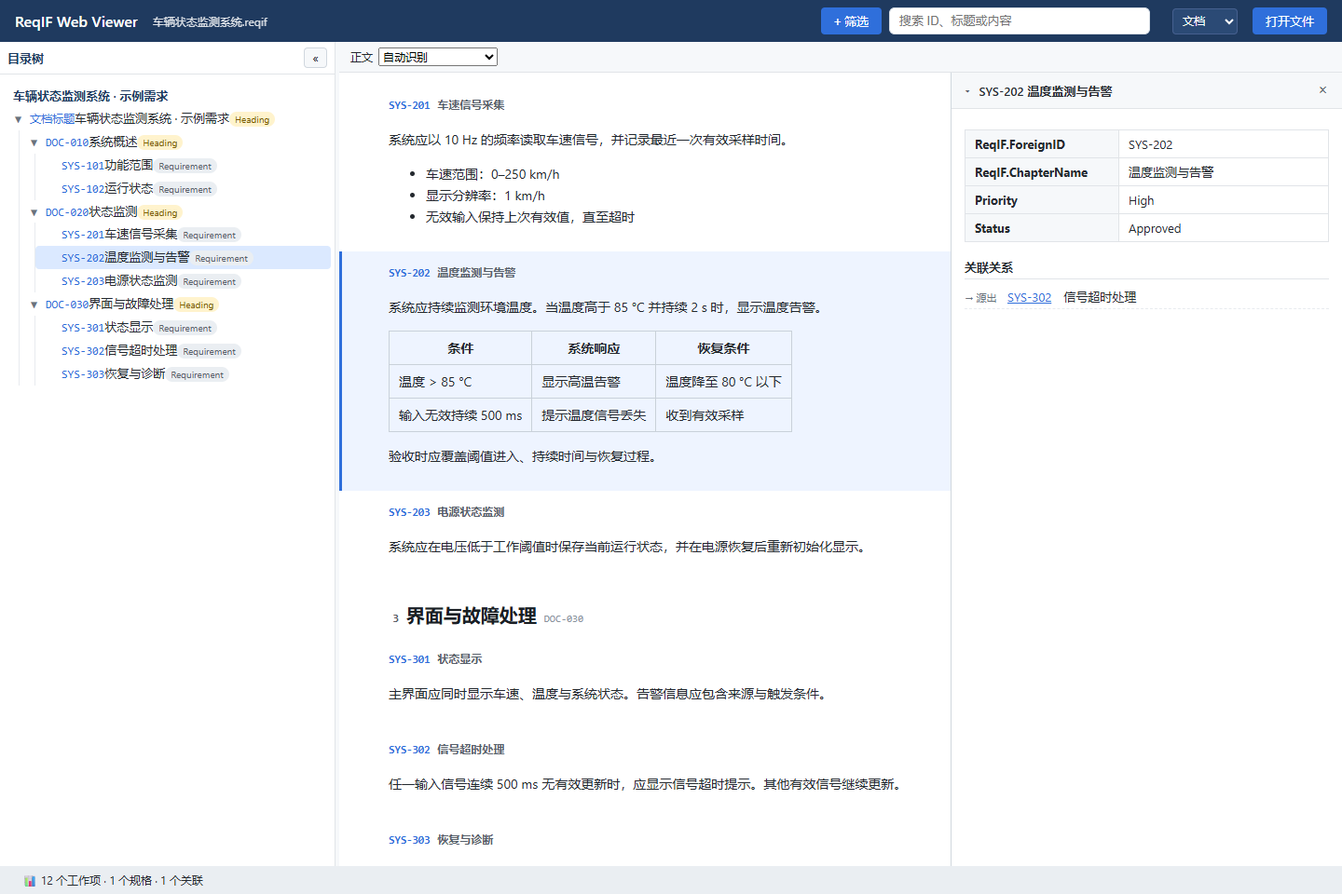
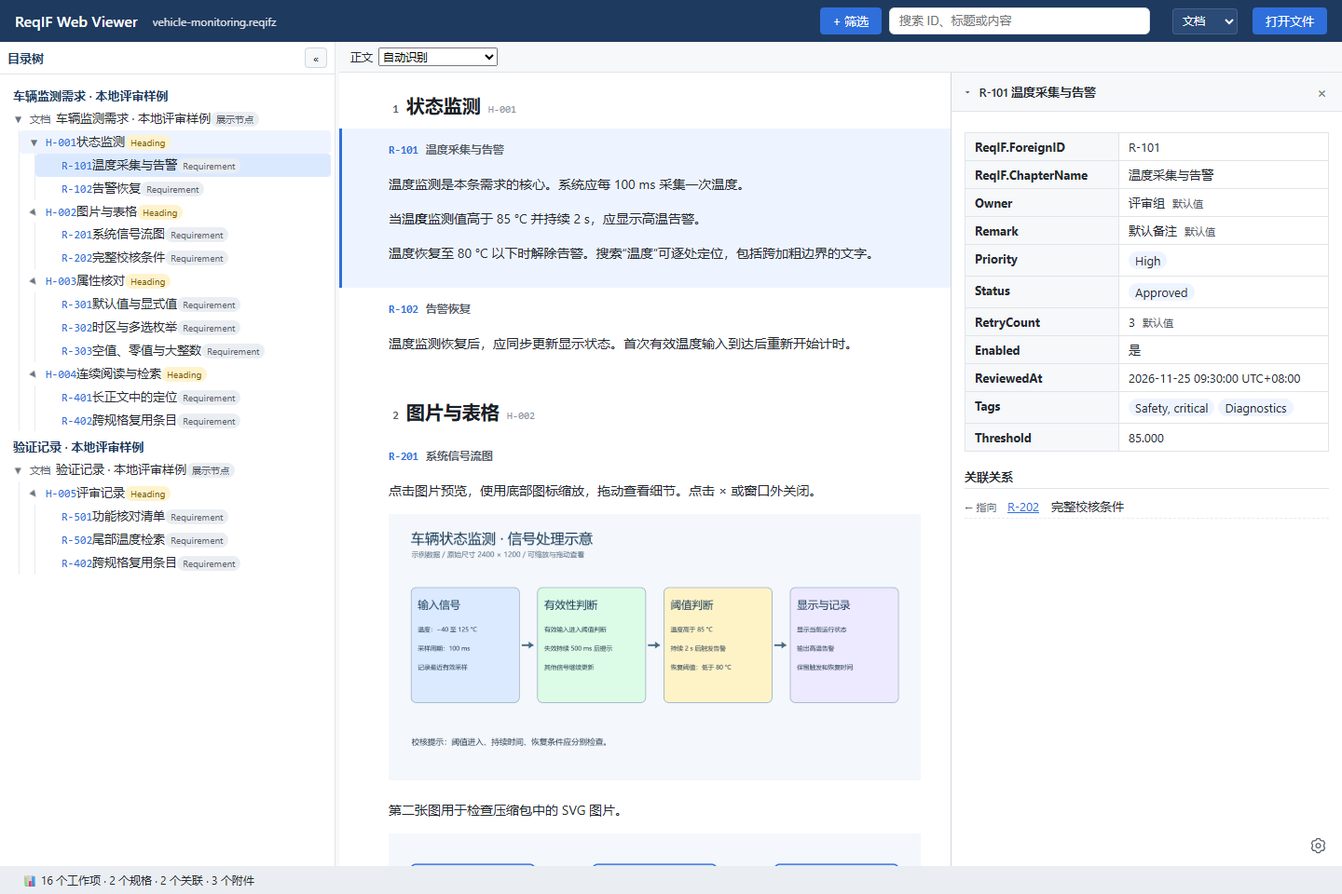
Expand ReqIF viewer showcase with current screenshots

diff --git a/en/projects/reqif-web-viewer/index.html b/en/projects/reqif-web-viewer/index.html
@@ -3,18 +3,18 @@
 <head>
   <meta charset="utf-8">
   <meta name="viewport" content="width=device-width, initial-scale=1">
-  <meta name="description" content="ReqIF Web Viewer is an open-source, browser-local viewer for ReqIF and ReqIFz files, with document navigation, full-text search, attribute filters, relations, and attachments.">
+  <meta name="description" content="ReqIF Web Viewer is an open-source local requirements viewer with document reading, body search navigation, field settings, image zoom, wide tables, relations, and source-based statistics.">
   <meta name="theme-color" content="#08111f">
   <meta name="robots" content="index, follow, max-image-preview:large">
   <meta property="og:type" content="article">
   <meta property="og:title" content="ReqIF Web Viewer | Read requirements in your browser · Clin">
-  <meta property="og:description" content="ReqIF Web Viewer is an open-source, browser-local viewer for ReqIF and ReqIFz files, with document navigation, full-text search, attribute filters, relations, and attachments.">
+  <meta property="og:description" content="ReqIF Web Viewer is an open-source local requirements viewer with document reading, body search navigation, field settings, image zoom, wide tables, relations, and source-based statistics.">
   <meta property="og:url" content="https://xzeng666.github.io/en/projects/reqif-web-viewer/">
   <meta property="og:image" content="https://xzeng666.github.io/assets/images/reqif-document-real.png">
-  <meta property="og:image:alt" content="The running ReqIF Web Viewer showing a requirement tree, temperature monitoring text and table, and an attribute and relations panel">
+  <meta property="og:image:alt" content="ReqIF Web Viewer document view with a requirement tree, temperature monitoring content, attributes, and relations">
   <meta name="twitter:card" content="summary_large_image">
   <meta name="twitter:title" content="ReqIF Web Viewer | Read requirements in your browser · Clin">
-  <meta name="twitter:description" content="ReqIF Web Viewer is an open-source, browser-local viewer for ReqIF and ReqIFz files, with document navigation, full-text search, attribute filters, relations, and attachments.">
+  <meta name="twitter:description" content="ReqIF Web Viewer is an open-source local requirements viewer with document reading, body search navigation, field settings, image zoom, wide tables, relations, and source-based statistics.">
   <meta name="twitter:image" content="https://xzeng666.github.io/assets/images/reqif-document-real.png">
   <title>ReqIF Web Viewer | Read requirements in your browser · Clin</title>
   <link rel="canonical" href="https://xzeng666.github.io/en/projects/reqif-web-viewer/">
@@ -35,7 +35,7 @@
       "@type": "SoftwareApplication",
       "name": "ReqIF Web Viewer",
       "url": "https://xzeng666.github.io/en/projects/reqif-web-viewer/",
-      "description": "ReqIF Web Viewer is an open-source, browser-local viewer for ReqIF and ReqIFz files, with document navigation, full-text search, attribute filters, relations, and attachments.",
+      "description": "ReqIF Web Viewer is an open-source local requirements viewer with document reading, body search navigation, field settings, image zoom, wide tables, relations, and source-based statistics.",
       "applicationCategory": "DeveloperApplication",
       "operatingSystem": "Web browser",
       "programmingLanguage": "JavaScript",
@@ -95,7 +95,7 @@
       </button>
       <nav class="nav-links" id="site-nav" aria-label="Project navigation">
         <a href="../../">Home</a>
-        <a href="#background">Background</a>
+        <a href="#interfaces">Interface</a>
         <a href="#features">Features</a>
         <a href="#start">Get started</a>
         <a href="../">All projects</a>
@@ -121,9 +121,9 @@
         </div>
         <figure class="visual-frame reveal">
           <a href="../../../assets/images/reqif-document-real.png" target="_blank" rel="noopener noreferrer" aria-label="View full screenshot">
-            <img src="../../../assets/images/reqif-document-real.png" width="1440" height="960" decoding="async" alt="The running ReqIF Web Viewer showing a requirement tree, temperature monitoring text and table, and an attribute and relations panel">
+            <img src="../../../assets/images/reqif-document-real.png" width="1440" height="960" decoding="async" alt="ReqIF Web Viewer document view with a requirement tree, temperature monitoring content, attributes, and relations">
           </a>
-          <figcaption class="visual-caption">Document view with navigation, content, and attributes. Captured from the running viewer with sample requirements.</figcaption>
+          <figcaption class="visual-caption">Document view with requirement navigation, attributes, and relations.</figcaption>
         </figure>
       </div>
     </section>
@@ -144,29 +144,91 @@
     <section class="section" id="features">
       <div class="container">
         <div class="section-heading reveal">
-          <div><span class="eyebrow">Features</span><h2>Read the document, then inspect the details.</h2></div>
-          <p>Document view provides context. Work item view collects the details of a single record.</p>
+          <div><span class="eyebrow">Features</span><h2>Everyday operations for reading requirements.</h2></div>
+          <p>Screenshots show the current viewer with illustrative Chinese vehicle-monitoring requirements. Select an image to view it at full size.</p>
         </div>
         <div class="detail-grid">
-          <article class="card reveal"><h3>Two connected views</h3><p>Navigate between the tree and document. Read paragraphs, lists, tables, and plain or rich text, with a choice of body field.</p></article>
-          <article class="card reveal"><h3>Search and attribute filters</h3><p>Search IDs, titles, and content using all or any keywords. Results include the matched field, highlighted excerpts, and chapter paths.</p></article>
-          <article class="card reveal"><h3>Attributes and relations</h3><p>Inspect enumeration, date, and numeric attributes, together with incoming and outgoing relations. Open related work items directly.</p></article>
-          <article class="card reveal"><h3>Attachments on demand</h3><p>Images in a ReqIFz archive load when visible. Other attachments are read and downloaded on click, so reading can start before attachment extraction.</p></article>
+          <article class="card reveal"><h3>Document and work item views</h3><p>Read specifications continuously in their original order, navigate from the tree, and inspect individual records. Select the field used as the document body.</p></article>
+          <article class="card reveal"><h3>Search and body navigation</h3><p>Search IDs, titles, and content with all or any keywords, then combine attribute filters. Highlight body matches, see the count, and move to the previous or next occurrence.</p></article>
+          <article class="card reveal"><h3>Field display settings</h3><p>Open the gear in the work item panel to choose fields. Drag the left handle or click the up and down buttons to reorder them. Preferences stay in the current browser.</p></article>
+          <article class="card reveal"><h3>Attribute values and sources</h3><p>Inspect separate enumeration labels, booleans, dates, and numbers. Inherited defaults are marked, dates retain their source time zone, and tooltips show the original value.</p></article>
+          <article class="card reveal"><h3>Images, tables, and attachments</h3><p>Images open fitted to the window, with zoom controls, wheel zoom, and drag panning. Scroll wide tables within the document and download other attachments on click.</p></article>
+          <article class="card reveal"><h3>Relations and statistics</h3><p>Follow incoming and outgoing relations. Counts use the source objects, count repeated references once, and handle added document titles as display nodes.</p></article>
         </div>
       </div>
     </section>
-    <section class="section section-muted">
+    <section class="section section-muted" id="search">
       <div class="container project-feature">
         <div class="feature-copy reveal">
           <span class="eyebrow">Search &amp; inspect</span>
-          <h2>Find a requirement with its context.</h2>
-          <p>Combine keywords and attribute filters. This example searches for temperature and filters High priority before opening an item to inspect its thresholds, recovery conditions, and related requirements.</p>
+          <h2>Go from a result to the matching content.</h2>
+          <p>This example searches for temperature and filters High priority. Results show the matched field, excerpt, and chapter path. Open an item to see highlighted body matches, then move to the previous or next occurrence.</p>
         </div>
         <figure class="visual-frame reveal">
           <a href="../../../assets/images/reqif-search-real.png" target="_blank" rel="noopener noreferrer" aria-label="View full screenshot">
-            <img src="../../../assets/images/reqif-search-real.png" width="1440" height="960" loading="lazy" decoding="async" alt="The running ReqIF Web Viewer with a temperature search, a High priority filter, and a work item showing attributes, text, and relations">
+            <img src="../../../assets/images/reqif-search-real.png" width="1440" height="960" loading="lazy" decoding="async" alt="Temperature search with a High priority filter, highlighted body text, occurrence count, and previous and next controls">
           </a>
-          <figcaption class="visual-caption">Search and filters with highlighted results and full work item details. The interface is shown with illustrative Chinese requirements.</figcaption>
+          <figcaption class="visual-caption">Combined search and filters with body highlighting and occurrence navigation.</figcaption>
+        </figure>
+      </div>
+    </section>
+    <section class="section" id="interfaces">
+      <div class="container">
+        <div class="section-heading reveal">
+          <div><span class="eyebrow">Attributes</span><h2>Arrange attributes for the way you read.</h2></div>
+          <p>Original field names and value tooltips remain available, with display settings inside the work item panel.</p>
+        </div>
+        <div class="reqif-gallery">
+        <figure class="visual-frame reveal">
+          <a href="../../../assets/images/reqif-item-real.png" target="_blank" rel="noopener noreferrer" aria-label="View full screenshot">
+            <img src="../../../assets/images/reqif-item-real.png" width="1440" height="960" loading="lazy" decoding="async" alt="Work item details showing enumeration labels, inherited defaults, a date retaining its time zone, and the body">
+          </a>
+          <figcaption class="visual-caption">Work item details with enumeration values, booleans, defaults, and the source time zone.</figcaption>
+        </figure>
+        <figure class="visual-frame reveal">
+          <a href="../../../assets/images/reqif-attributes-real.png" target="_blank" rel="noopener noreferrer" aria-label="View full screenshot">
+            <img src="../../../assets/images/reqif-attributes-real.png" width="1440" height="960" loading="lazy" decoding="async" alt="Field settings with checkboxes, drag handles on the left, and up and down icon buttons">
+          </a>
+          <figcaption class="visual-caption">Choose visible fields and reorder them by dragging or clicking the up and down buttons.</figcaption>
+        </figure>
+        </div>
+      </div>
+    </section>
+    <section class="section section-muted" id="media">
+      <div class="container">
+        <div class="section-heading reveal">
+          <div><span class="eyebrow">Images &amp; tables</span><h2>Inspect diagrams and wide tables.</h2></div>
+          <p>Close image and settings windows with the cross or a click outside. Reading controls stay close to the content.</p>
+        </div>
+        <div class="reqif-gallery">
+        <figure class="visual-frame reveal">
+          <a href="../../../assets/images/reqif-image-real.png" target="_blank" rel="noopener noreferrer" aria-label="View full screenshot">
+            <img src="../../../assets/images/reqif-image-real.png" width="1440" height="960" loading="lazy" decoding="async" alt="Image preview fitted to the window, with a close icon at the top and zoom icons and a percentage below">
+          </a>
+          <figcaption class="visual-caption">Image preview starts fitted to the window, with zoom controls and drag panning.</figcaption>
+        </figure>
+        <figure class="visual-frame reveal">
+          <a href="../../../assets/images/reqif-table-real.png" target="_blank" rel="noopener noreferrer" aria-label="View full screenshot">
+            <img src="../../../assets/images/reqif-table-real.png" width="1440" height="960" loading="lazy" decoding="async" alt="A ten-column requirement table scrolled horizontally within document view">
+          </a>
+          <figcaption class="visual-caption">Scroll wide tables inside the document while keeping their surrounding context.</figcaption>
+        </figure>
+        </div>
+      </div>
+    </section>
+    <section class="section" id="statistics">
+      <div class="container case-copy-grid">
+        <div class="case-copy reveal">
+          <span class="eyebrow">Statistics</span>
+          <h2>Statistics reflect the source objects.</h2>
+          <p>A work item referenced by multiple specifications is counted once. Document titles added from specification names are marked as display nodes, while work item and type totals use objects from the file.</p>
+          <p>The window also lists specifications, relations, and attachments. This example contains 16 work items, including 5 Heading and 11 Requirement objects.</p>
+        </div>
+        <figure class="visual-frame reveal reqif-statistics">
+          <a href="../../../assets/images/reqif-statistics-real.png" target="_blank" rel="noopener noreferrer" aria-label="View full screenshot">
+            <img src="../../../assets/images/reqif-statistics-real.png" width="420" height="314" loading="lazy" decoding="async" alt="Statistics window showing 16 source work items, 5 Heading and 11 Requirement objects, 2 specifications, 2 relations, and 3 attachments">
+          </a>
+          <figcaption class="visual-caption">Statistics count source work items separately from added document titles.</figcaption>
         </figure>
       </div>
     </section>
@@ -190,7 +252,7 @@
       <div class="container">
         <div class="free-banner reveal">
           <div class="free-banner-content">
-            <div><span class="free-label">MIT</span><h2>MIT licensed, with source ready to download.</h2><p>Built with HTML, CSS, and JavaScript, the viewer runs without a build step. The repository includes usage, format notes, and GitHub Pages deployment instructions.</p></div>
+            <div><span class="free-label">MIT</span><h2>MIT licensed, with source ready to download.</h2><p>Built with HTML, CSS, and JavaScript, the viewer runs without a build step. The repository includes the source, usage, and supported file formats.</p></div>
             <a class="button button-secondary" href="https://github.com/Xzeng666/reqif-web-viewer" target="_blank" rel="noopener noreferrer">Browse the GitHub repository</a>
           </div>
         </div>

diff --git a/projects/reqif-web-viewer/index.html b/projects/reqif-web-viewer/index.html
@@ -3,18 +3,18 @@
 <head>
   <meta charset="utf-8">
   <meta name="viewport" content="width=device-width, initial-scale=1">
-  <meta name="description" content="ReqIF Web Viewer 是开源的浏览器本地需求查看器，支持 ReqIF / ReqIFz 文档阅读、全文搜索、属性筛选、关联关系与附件。">
+  <meta name="description" content="ReqIF Web Viewer 是开源的本地需求查看器，支持 ReqIF / ReqIFz 文档阅读、正文搜索定位、字段设置、图片缩放、宽表格、关联关系和真实对象统计。">
   <meta name="theme-color" content="#08111f">
   <meta name="robots" content="index, follow, max-image-preview:large">
   <meta property="og:type" content="article">
   <meta property="og:title" content="ReqIF Web Viewer｜在浏览器中阅读需求文件 · Clin">
-  <meta property="og:description" content="ReqIF Web Viewer 是开源的浏览器本地需求查看器，支持 ReqIF / ReqIFz 文档阅读、全文搜索、属性筛选、关联关系与附件。">
+  <meta property="og:description" content="ReqIF Web Viewer 是开源的本地需求查看器，支持 ReqIF / ReqIFz 文档阅读、正文搜索定位、字段设置、图片缩放、宽表格、关联关系和真实对象统计。">
   <meta property="og:url" content="https://xzeng666.github.io/projects/reqif-web-viewer/">
   <meta property="og:image" content="https://xzeng666.github.io/assets/images/reqif-document-real.png">
-  <meta property="og:image:alt" content="ReqIF Web Viewer 实际文档视图，左侧为需求目录，中间为温度监测正文与表格，右侧为属性和关联关系">
+  <meta property="og:image:alt" content="ReqIF Web Viewer 文档视图，展示需求目录、温度监测正文、属性和关联关系">
   <meta name="twitter:card" content="summary_large_image">
   <meta name="twitter:title" content="ReqIF Web Viewer｜在浏览器中阅读需求文件 · Clin">
-  <meta name="twitter:description" content="ReqIF Web Viewer 是开源的浏览器本地需求查看器，支持 ReqIF / ReqIFz 文档阅读、全文搜索、属性筛选、关联关系与附件。">
+  <meta name="twitter:description" content="ReqIF Web Viewer 是开源的本地需求查看器，支持 ReqIF / ReqIFz 文档阅读、正文搜索定位、字段设置、图片缩放、宽表格、关联关系和真实对象统计。">
   <meta name="twitter:image" content="https://xzeng666.github.io/assets/images/reqif-document-real.png">
   <title>ReqIF Web Viewer｜在浏览器中阅读需求文件 · Clin</title>
   <link rel="canonical" href="https://xzeng666.github.io/projects/reqif-web-viewer/">
@@ -35,7 +35,7 @@
       "@type": "SoftwareApplication",
       "name": "ReqIF Web Viewer",
       "url": "https://xzeng666.github.io/projects/reqif-web-viewer/",
-      "description": "ReqIF Web Viewer 是开源的浏览器本地需求查看器，支持 ReqIF / ReqIFz 文档阅读、全文搜索、属性筛选、关联关系与附件。",
+      "description": "ReqIF Web Viewer 是开源的本地需求查看器，支持 ReqIF / ReqIFz 文档阅读、正文搜索定位、字段设置、图片缩放、宽表格、关联关系和真实对象统计。",
       "applicationCategory": "DeveloperApplication",
       "operatingSystem": "Web browser",
       "programmingLanguage": "JavaScript",
@@ -95,7 +95,7 @@
       </button>
       <nav class="nav-links" id="site-nav" aria-label="项目导航">
         <a href="../../">主页</a>
-        <a href="#background">背景</a>
+        <a href="#interfaces">界面</a>
         <a href="#features">功能</a>
         <a href="#start">开始使用</a>
         <a href="../">全部项目</a>
@@ -121,9 +121,9 @@
         </div>
         <figure class="visual-frame reveal">
           <a href="../../assets/images/reqif-document-real.png" target="_blank" rel="noopener noreferrer" aria-label="查看完整截图">
-            <img src="../../assets/images/reqif-document-real.png" width="1440" height="960" decoding="async" alt="ReqIF Web Viewer 实际文档视图，左侧为需求目录，中间为温度监测正文与表格，右侧为属性和关联关系">
+            <img src="../../assets/images/reqif-document-real.png" width="1440" height="960" decoding="async" alt="ReqIF Web Viewer 文档视图，展示需求目录、温度监测正文、属性和关联关系">
           </a>
-          <figcaption class="visual-caption">文档视图 · 目录、正文与属性面板，使用示例需求实际运行截图。</figcaption>
+          <figcaption class="visual-caption">文档视图 · 按目录阅读需求，查看属性和关联。</figcaption>
         </figure>
       </div>
     </section>
@@ -144,29 +144,91 @@
     <section class="section" id="features">
       <div class="container">
         <div class="section-heading reveal">
-          <div><span class="eyebrow">Features</span><h2>从连续阅读到逐条核对。</h2></div>
-          <p>文档视图呈现需求上下文，工作项视图集中展示单条记录。</p>
+          <div><span class="eyebrow">Features</span><h2>查看器的常用操作。</h2></div>
+          <p>所有截图均来自当前版本实际运行，使用虚构的车辆监测需求。点击图片可查看原图。</p>
         </div>
         <div class="detail-grid">
-          <article class="card reveal"><h3>文档与工作项双视图</h3><p>目录树与正文联动定位。文档视图支持段落、列表、表格，以及纯文本和富文本正文字段切换。</p></article>
-          <article class="card reveal"><h3>全文搜索与属性筛选</h3><p>搜索 ID、标题和正文，支持全部或任一关键词匹配。结果显示命中字段、高亮摘要和章节路径。</p></article>
-          <article class="card reveal"><h3>属性与关联关系</h3><p>查看枚举、日期、数值等属性，以及需求的出入向关联。点击关联条目可继续查看对应工作项。</p></article>
-          <article class="card reveal"><h3>ReqIFz 附件按需读取</h3><p>压缩包中的图片进入可见区域后加载，其他附件点击后读取和下载。正文阅读先于附件解压。</p></article>
+          <article class="card reveal"><h3>文档与工作项</h3><p>按文件原有顺序连续阅读各规格，目录与正文联动。切换工作项视图核对单条记录，正文字段可手动选择。</p></article>
+          <article class="card reveal"><h3>搜索与正文定位</h3><p>搜索 ID、标题和内容，组合属性筛选。支持全部或任一关键词匹配，正文高亮、命中次数与上一处 / 下一处跳转。</p></article>
+          <article class="card reveal"><h3>字段显示设置</h3><p>打开工作项后，从右下角齿轮勾选字段，通过左侧手柄拖动或 ↑ / ↓ 按钮排序。显示偏好保存在当前浏览器。</p></article>
+          <article class="card reveal"><h3>属性值与来源</h3><p>区分多选枚举、布尔值、日期和数值，标注继承的默认值。日期保留源时区，悬停可查看原始内容。</p></article>
+          <article class="card reveal"><h3>图表与附件</h3><p>图片打开时适应窗口，可用底部图标或滚轮缩放、拖动平移。宽表格在正文中横向滚动，其他附件点击后下载。</p></article>
+          <article class="card reveal"><h3>关联与统计</h3><p>点击出入向关联继续查阅。统计按真实对象计算，重复引用只计一次，补充标题作为展示节点处理。</p></article>
         </div>
       </div>
     </section>
-    <section class="section section-muted">
+    <section class="section section-muted" id="search">
       <div class="container project-feature">
         <div class="feature-copy reveal">
           <span class="eyebrow">Search &amp; inspect</span>
-          <h2>带着上下文找到目标需求。</h2>
-          <p>关键词与属性筛选可以组合使用。示例在搜索「温度」的同时筛选 High 优先级，并打开匹配工作项，核对阈值、恢复条件与关联需求。</p>
+          <h2>从结果定位到正文中的具体内容。</h2>
+          <p>搜索「温度」并筛选 High 优先级后，结果显示命中字段、摘要和章节路径。打开条目后可查看正文高亮，再通过上一处 / 下一处继续定位。</p>
         </div>
         <figure class="visual-frame reveal">
           <a href="../../assets/images/reqif-search-real.png" target="_blank" rel="noopener noreferrer" aria-label="查看完整截图">
-            <img src="../../assets/images/reqif-search-real.png" width="1440" height="960" loading="lazy" decoding="async" alt="ReqIF Web Viewer 实际搜索和工作项视图，温度关键词与 High 优先级筛选后展示正文、属性和关联关系">
+            <img src="../../assets/images/reqif-search-real.png" width="1440" height="960" loading="lazy" decoding="async" alt="搜索温度并按 High 优先级筛选，正文显示高亮和命中计数，顶部提供上一处与下一处按钮">
           </a>
-          <figcaption class="visual-caption">搜索与筛选 · 高亮命中内容，查看完整工作项；截图使用示例数据。</figcaption>
+          <figcaption class="visual-caption">关键词与属性组合筛选 · 正文高亮和命中定位。</figcaption>
+        </figure>
+      </div>
+    </section>
+    <section class="section" id="interfaces">
+      <div class="container">
+        <div class="section-heading reveal">
+          <div><span class="eyebrow">Attributes</span><h2>按查阅习惯组织属性。</h2></div>
+          <p>保留原始字段名与值提示，常用显示设置放在工作项面板内。</p>
+        </div>
+        <div class="reqif-gallery">
+        <figure class="visual-frame reveal">
+          <a href="../../assets/images/reqif-item-real.png" target="_blank" rel="noopener noreferrer" aria-label="查看完整截图">
+            <img src="../../assets/images/reqif-item-real.png" width="1440" height="960" loading="lazy" decoding="async" alt="工作项视图展示多选枚举标签、默认值标记、保留时区的日期和需求正文">
+          </a>
+          <figcaption class="visual-caption">工作项详情 · 多选枚举、布尔值、默认值和源时区。</figcaption>
+        </figure>
+        <figure class="visual-frame reveal">
+          <a href="../../assets/images/reqif-attributes-real.png" target="_blank" rel="noopener noreferrer" aria-label="查看完整截图">
+            <img src="../../assets/images/reqif-attributes-real.png" width="1440" height="960" loading="lazy" decoding="async" alt="显示字段窗口展示勾选框、左侧拖动手柄和上移下移图标按钮">
+          </a>
+          <figcaption class="visual-caption">字段设置 · 勾选显示、拖动排序，或点击 ↑ / ↓ 调整。</figcaption>
+        </figure>
+        </div>
+      </div>
+    </section>
+    <section class="section section-muted" id="media">
+      <div class="container">
+        <div class="section-heading reveal">
+          <div><span class="eyebrow">Images &amp; tables</span><h2>图片预览与宽表格。</h2></div>
+          <p>图片和设置窗口均可通过 × 或点击外部关闭，查阅操作集中在内容附近。</p>
+        </div>
+        <div class="reqif-gallery">
+        <figure class="visual-frame reveal">
+          <a href="../../assets/images/reqif-image-real.png" target="_blank" rel="noopener noreferrer" aria-label="查看完整截图">
+            <img src="../../assets/images/reqif-image-real.png" width="1440" height="960" loading="lazy" decoding="async" alt="图片预览自动适应窗口，右上角为关闭图标，底部为缩放图标与比例">
+          </a>
+          <figcaption class="visual-caption">图片预览 · 默认适应窗口，底部图标缩放，拖动查看细节。</figcaption>
+        </figure>
+        <figure class="visual-frame reveal">
+          <a href="../../assets/images/reqif-table-real.png" target="_blank" rel="noopener noreferrer" aria-label="查看完整截图">
+            <img src="../../assets/images/reqif-table-real.png" width="1440" height="960" loading="lazy" decoding="async" alt="文档视图中的十列表格，可在正文区域横向滚动查看其余列">
+          </a>
+          <figcaption class="visual-caption">宽表格 · 在正文内横向滚动，保持当前阅读上下文。</figcaption>
+        </figure>
+        </div>
+      </div>
+    </section>
+    <section class="section" id="statistics">
+      <div class="container case-copy-grid">
+        <div class="case-copy reveal">
+          <span class="eyebrow">Statistics</span>
+          <h2>统计对应源文件中的真实对象。</h2>
+          <p>同一工作项被多个规格引用时只计一次。由规格名称补充的文档标题标记为展示节点，工作项与类型数量以源文件中的对象为准。</p>
+          <p>统计窗口同时列出规格、关联关系与附件数量。示例包含 16 个工作项，其中 Heading 5 个、Requirement 11 个。</p>
+        </div>
+        <figure class="visual-frame reveal reqif-statistics">
+          <a href="../../assets/images/reqif-statistics-real.png" target="_blank" rel="noopener noreferrer" aria-label="查看完整截图">
+            <img src="../../assets/images/reqif-statistics-real.png" width="420" height="314" loading="lazy" decoding="async" alt="统计窗口显示16个真实工作项、5个Heading、11个Requirement、2个规格、2个关联与3个附件">
+          </a>
+          <figcaption class="visual-caption">统计窗口 · 补充标题独立于工作项计数。</figcaption>
         </figure>
       </div>
     </section>
@@ -174,7 +236,7 @@
       <div class="container">
         <div class="section-heading reveal">
           <div><span class="eyebrow">Get started</span><h2>选择文件，开始阅读。</h2></div>
-          <p>在线使用无需安装运行环境；关闭页面后，可再次选择本机文件继续查阅。</p>
+          <p>在线使用无需安装运行环境，选择本机文件即可开始。</p>
         </div>
         <div class="card-grid">
           <article class="card reveal"><h3>打开查看器</h3><p>进入在线工具，点击「打开文件」或将文件拖入页面。</p></article>
@@ -190,7 +252,7 @@
       <div class="container">
         <div class="free-banner reveal">
           <div class="free-banner-content">
-            <div><span class="free-label">MIT</span><h2>MIT 开源，源码可直接下载。</h2><p>项目使用 HTML、CSS 与 JavaScript，无需构建即可运行。仓库包含使用方式、格式说明与 GitHub Pages 部署步骤。</p></div>
+            <div><span class="free-label">MIT</span><h2>MIT 开源，源码可直接下载。</h2><p>项目使用 HTML、CSS 与 JavaScript，无需构建即可运行。仓库包含源代码、使用方式与文件支持说明。</p></div>
             <a class="button button-secondary" href="https://github.com/Xzeng666/reqif-web-viewer" target="_blank" rel="noopener noreferrer">浏览 GitHub 仓库</a>
           </div>
         </div>

diff --git a/en/index.html b/en/index.html
@@ -43,7 +43,7 @@
             <div class="project-actions"><a class="button button-primary" href="/en/projects/reqif-web-viewer/">Explore the project</a><a class="text-link" href="https://xzeng666.github.io/reqif-web-viewer/">Open viewer</a></div>
           </div>
           <figure class="featured-project-media">
-            <img src="/assets/images/reqif-document-real.png" width="1440" height="960" loading="lazy" decoding="async" alt="The running ReqIF Web Viewer showing a requirement tree, temperature monitoring text and table, and an attribute and relations panel">
+            <img src="/assets/images/reqif-document-real.png" width="1440" height="960" loading="lazy" decoding="async" alt="ReqIF Web Viewer document view with a requirement tree, temperature monitoring content, attributes, and relations">
             <figcaption>Running viewer · Document and attributes with sample requirements</figcaption>
           </figure>
         </article>

diff --git a/index.html b/index.html
@@ -138,7 +138,7 @@
             <div class="project-actions"><a class="button button-primary" href="./projects/reqif-web-viewer/">查看项目介绍</a><a class="text-link" href="https://xzeng666.github.io/reqif-web-viewer/">立即使用</a></div>
           </div>
           <figure class="featured-project-media">
-            <img src="./assets/images/reqif-document-real.png" width="1440" height="960" loading="lazy" decoding="async" alt="ReqIF Web Viewer 实际文档视图，左侧为需求目录，中间为温度监测正文与表格，右侧为属性和关联关系">
+            <img src="./assets/images/reqif-document-real.png" width="1440" height="960" loading="lazy" decoding="async" alt="ReqIF Web Viewer 文档视图，展示需求目录、温度监测正文、属性和关联关系">
             <figcaption>真实运行截图 · 示例需求的文档与属性</figcaption>
           </figure>
         </article>

diff --git a/assets/css/themes.css b/assets/css/themes.css
@@ -716,3 +716,20 @@
 @media (max-width: 768px) {
   .theme-reqif .detail-grid { grid-template-columns: 1fr; }
 }
+
+.theme-reqif .reqif-gallery {
+  display: grid;
+  grid-template-columns: repeat(2, minmax(0, 1fr));
+  align-items: start;
+  gap: 24px;
+}
+
+.theme-reqif .reqif-statistics {
+  width: min(100%, 420px);
+  justify-self: center;
+  align-self: start;
+}
+
+@media (max-width: 768px) {
+  .theme-reqif .reqif-gallery { grid-template-columns: 1fr; }
+}

diff --git a/README.md b/README.md
@@ -32,7 +32,7 @@ python scripts/check_site.py
 
 ## 图片来源
 
-ReqIF Web Viewer 页面截图来自线上查看器实际运行，使用车辆状态监测示例需求。CarMaker CameraRSI Recorder 页面使用项目实际中英文 GUI 截图与录制结果；LanExamSystem 页面使用程序实际运行截图。图片仅用于说明对应项目的真实输出与界面。
+ReqIF Web Viewer 页面使用当前线上版本的七张实际界面截图，覆盖文档、搜索定位、工作项、字段设置、图片、表格和统计，内容为车辆状态监测示例需求。CarMaker CameraRSI Recorder 页面使用项目实际中英文 GUI 截图与录制结果；LanExamSystem 页面使用程序实际运行截图。图片仅用于说明对应项目的真实输出与界面。
 
 ## 部署
 
